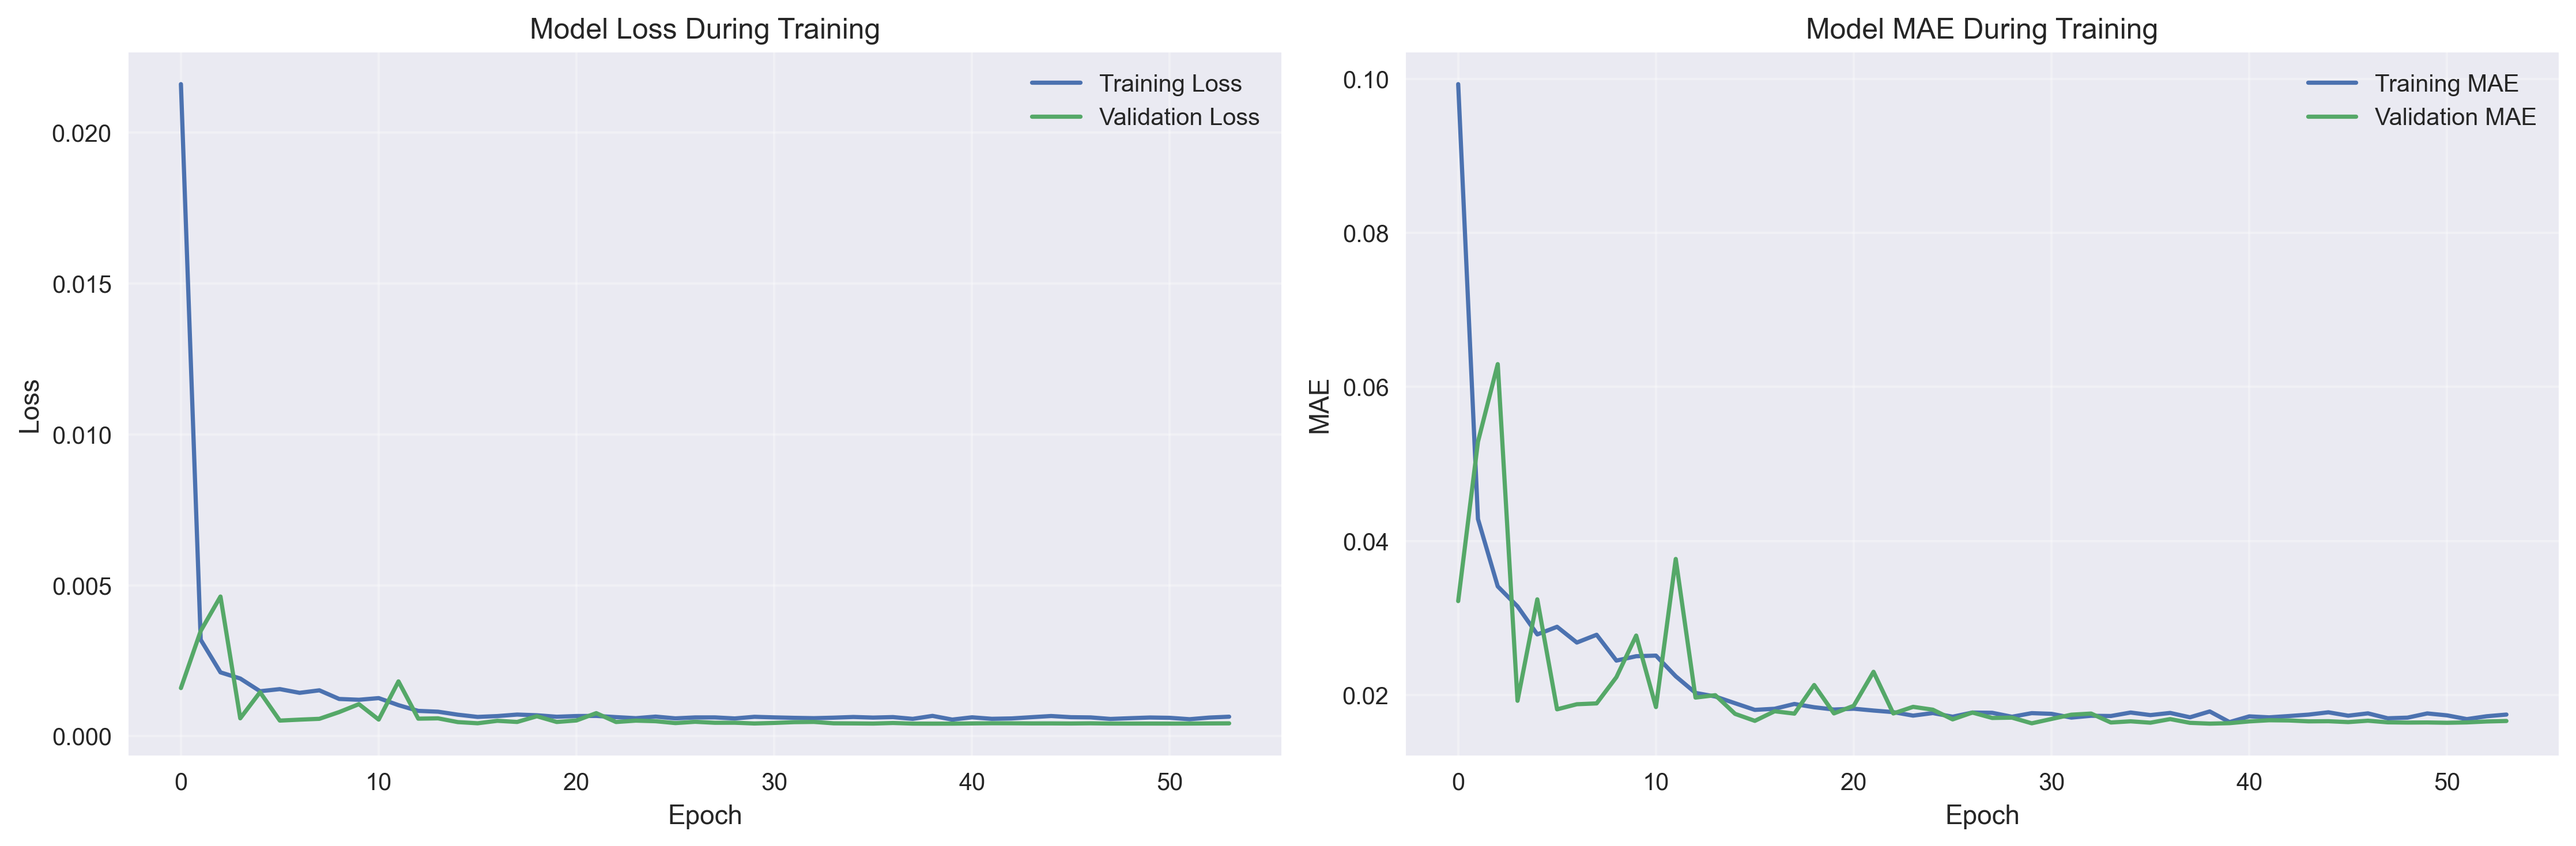
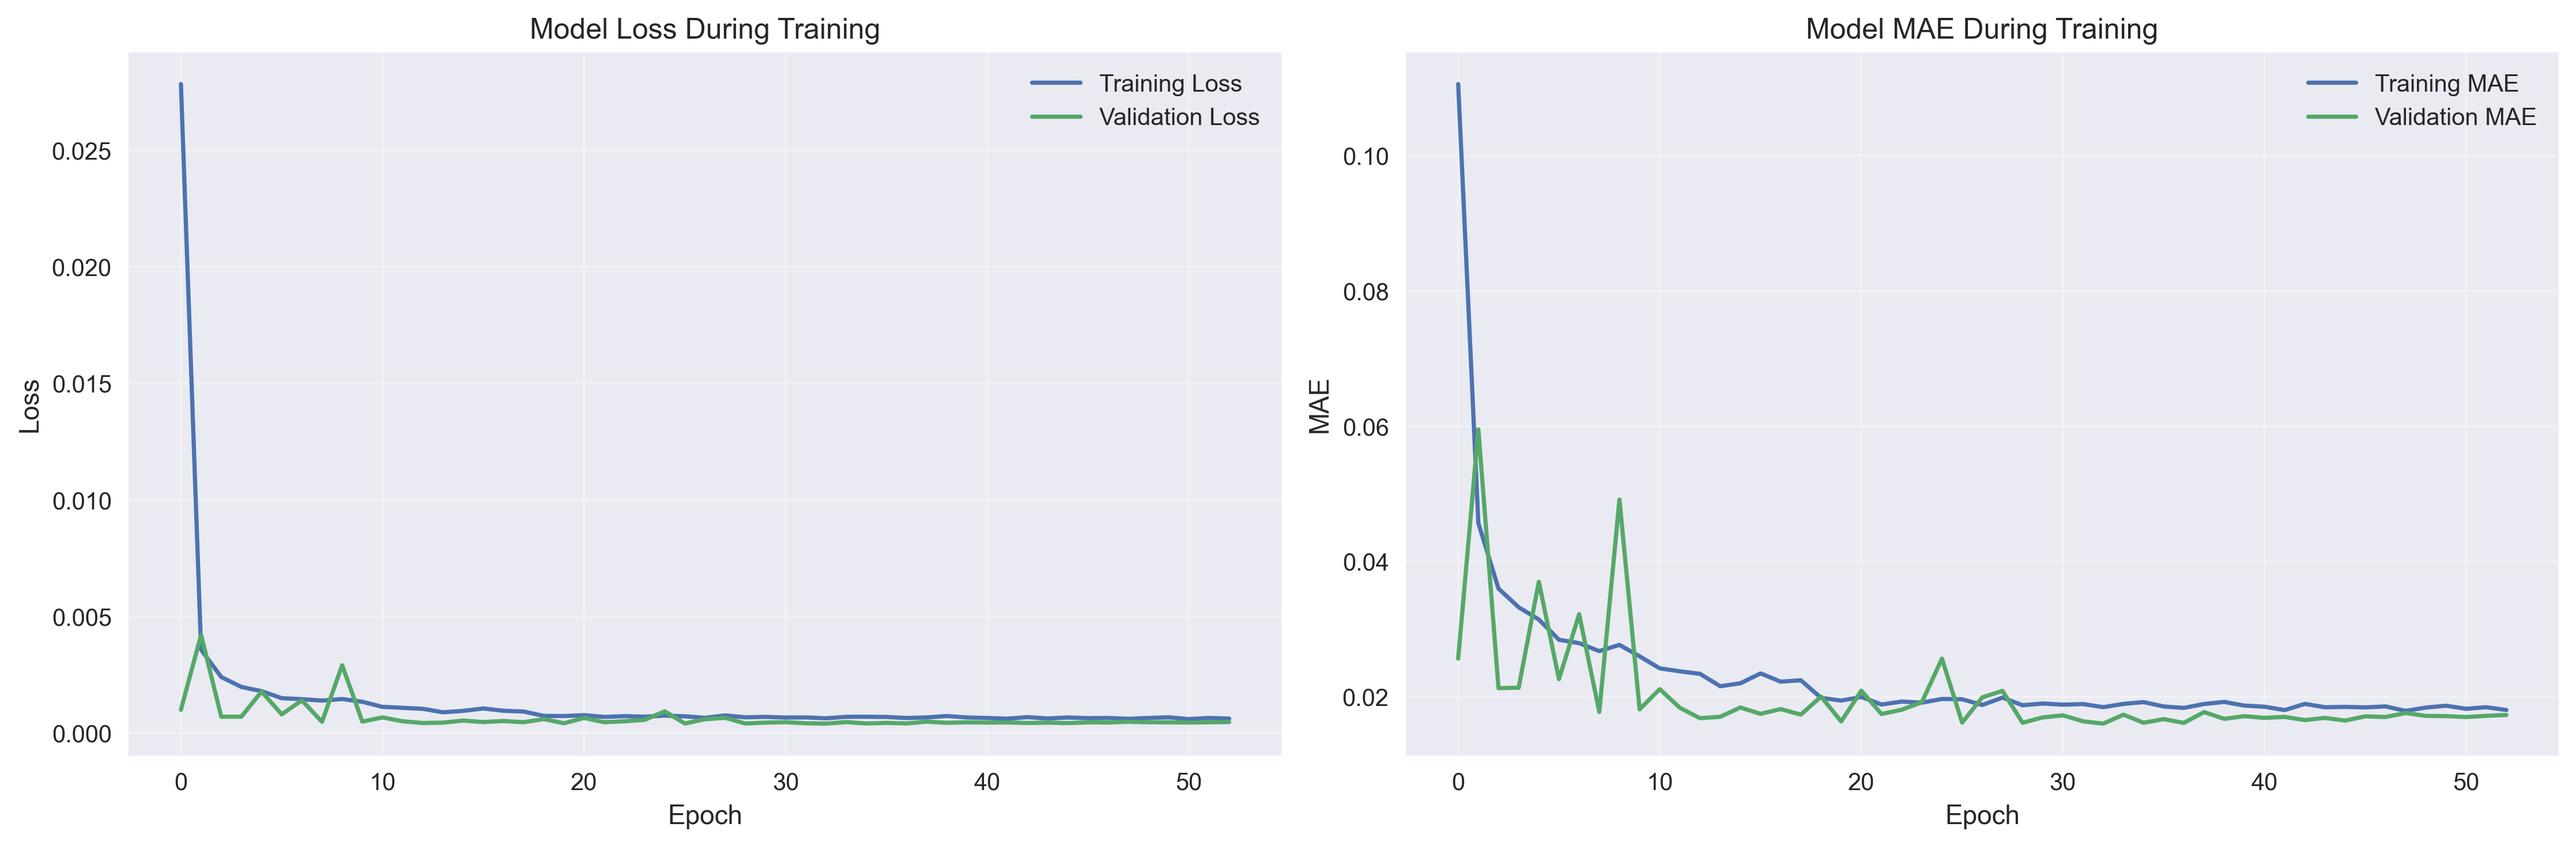
feat: lstm benchmark

diff --git a/lstm_baseline_model.py b/lstm_baseline_model.py
@@ -135,17 +135,31 @@ class BRLUSDLSTMModel:
 
         return X, y, data.index[self.sequence_length :]
 
-    def train_test_split(self, X, y, dates, test_size=0.2):
-        """Split data into train and test sets"""
-        split_idx = int(len(X) * (1 - test_size))
+    def train_test_split(self, X, y, dates, test_years=1):
+        """Split data into train and test sets using last N years as test"""
+
+        test_start_date = dates.max() - pd.DateOffset(years=test_years)
+        split_idx = None
+
+        for i, date in enumerate(dates):
+            if date >= test_start_date:
+                split_idx = i
+                break
+
+        if split_idx is None:
+            split_idx = int(len(X) * 0.8)
 
         X_train, X_test = X[:split_idx], X[split_idx:]
         y_train, y_test = y[:split_idx], y[split_idx:]
         dates_train = dates[:split_idx]
         dates_test = dates[split_idx:]
 
-        print(f"Train set: {X_train.shape[0]} samples")
-        print(f"Test set: {X_test.shape[0]} samples")
+        print(
+            f"Train set: {X_train.shape[0]} samples (up to {dates_train.max().strftime('%Y-%m-%d')})"
+        )
+        print(
+            f"Test set: {X_test.shape[0]} samples (from {dates_test.min().strftime('%Y-%m-%d')} to {dates_test.max().strftime('%Y-%m-%d')})"
+        )
 
         return X_train, X_test, y_train, y_test, dates_train, dates_test
 
@@ -190,7 +204,7 @@ class BRLUSDLSTMModel:
 
         callbacks = [
             EarlyStopping(
-                monitor="val_loss", patience=15, restore_best_weights=True, verbose=1
+                monitor="val_loss", patience=20, restore_best_weights=True, verbose=1
             ),
             ReduceLROnPlateau(
                 monitor="val_loss", factor=0.2, patience=10, min_lr=1e-6, verbose=1
@@ -331,25 +345,55 @@ class BRLUSDLSTMModel:
         plt.savefig("results/lstm/training_history.png", dpi=300, bbox_inches="tight")
         plt.close()
 
-    def plot_predictions(self, results, n_show=500):
-        """Plot model predictions vs actual values"""
-        fig, (ax1, ax2) = plt.subplots(2, 1, figsize=(15, 10))
+    def plot_predictions(self, data, results, dates_train, dates_test, n_show=500):
+        """Plot training data, test true values, predicted curves, and residuals"""
+        fig, (ax1, ax2) = plt.subplots(2, 1, figsize=(15, 12))
 
-        dates = results["dates"][-n_show:]
-        actual = results["actual"][-n_show:]
-        pred = results["predictions"][-n_show:]
+        train_end_idx = min(len(dates_train), n_show)
+        train_dates = dates_train[-train_end_idx:]
+        train_prices = data.loc[train_dates, "Close"]
 
-        ax1.plot(dates, actual, label="Actual Price", linewidth=1.5, alpha=0.8)
-        ax1.plot(dates, pred, label="Predicted Price", linewidth=1.5, alpha=0.8)
-        ax1.set_title(f"LSTM Model: Predicted vs Actual Prices (Last {n_show} days)")
+        test_dates = results["dates"]
+        test_actual = results["actual"]
+        test_pred = results["predictions"]
+
+        ax1.plot(
+            train_dates,
+            train_prices,
+            label="Training Data",
+            linewidth=1.5,
+            alpha=0.7,
+            color="blue",
+        )
+
+        ax1.plot(
+            test_dates,
+            test_actual,
+            label="Test True Values",
+            linewidth=1.5,
+            alpha=0.8,
+            color="green",
+        )
+
+        ax1.plot(
+            test_dates,
+            test_pred,
+            label="Predicted Values",
+            linewidth=1.5,
+            alpha=0.8,
+            color="red",
+            linestyle="--",
+        )
+
+        ax1.set_title("LSTM Model: Training Data, Test True Values, and Predictions")
         ax1.set_xlabel("Date")
         ax1.set_ylabel("Price (BRL)")
         ax1.legend()
         ax1.grid(True, alpha=0.3)
         ax1.tick_params(axis="x", rotation=45)
 
-        residuals = actual - pred
-        ax2.plot(dates, residuals, color="red", alpha=0.7)
+        residuals = test_actual - test_pred
+        ax2.plot(test_dates, residuals, color="red", alpha=0.7, linewidth=1)
         ax2.axhline(y=0, color="black", linestyle="--", alpha=0.5)
         ax2.set_title("Prediction Residuals")
         ax2.set_xlabel("Date")
@@ -358,9 +402,7 @@ class BRLUSDLSTMModel:
         ax2.tick_params(axis="x", rotation=45)
 
         plt.tight_layout()
-        plt.savefig(
-            "results/lstm/predictions_vs_actual.png", dpi=300, bbox_inches="tight"
-        )
+        plt.savefig("results/lstm/predictions.png", dpi=300, bbox_inches="tight")
         plt.close()
 
     def plot_forecast(self, data, forecasts, forecast_dates, n_history=100):
@@ -427,7 +469,7 @@ def run_lstm_baseline():
     X, y, dates = model.create_sequences(data)
 
     X_train, X_test, y_train, y_test, dates_train, dates_test = model.train_test_split(
-        X, y, dates
+        X, y, dates, test_years=1
     )
 
     history = model.train_model(
@@ -456,7 +498,7 @@ def run_lstm_baseline():
     forecasts, forecast_dates = model.forecast_future(data, n_steps=30)
 
     model.plot_training_history()
-    model.plot_predictions(results)
+    model.plot_predictions(data, results, dates_train, dates_test)
     model.plot_forecast(data, forecasts, forecast_dates)
 
     print("\n" + "=" * 60)
